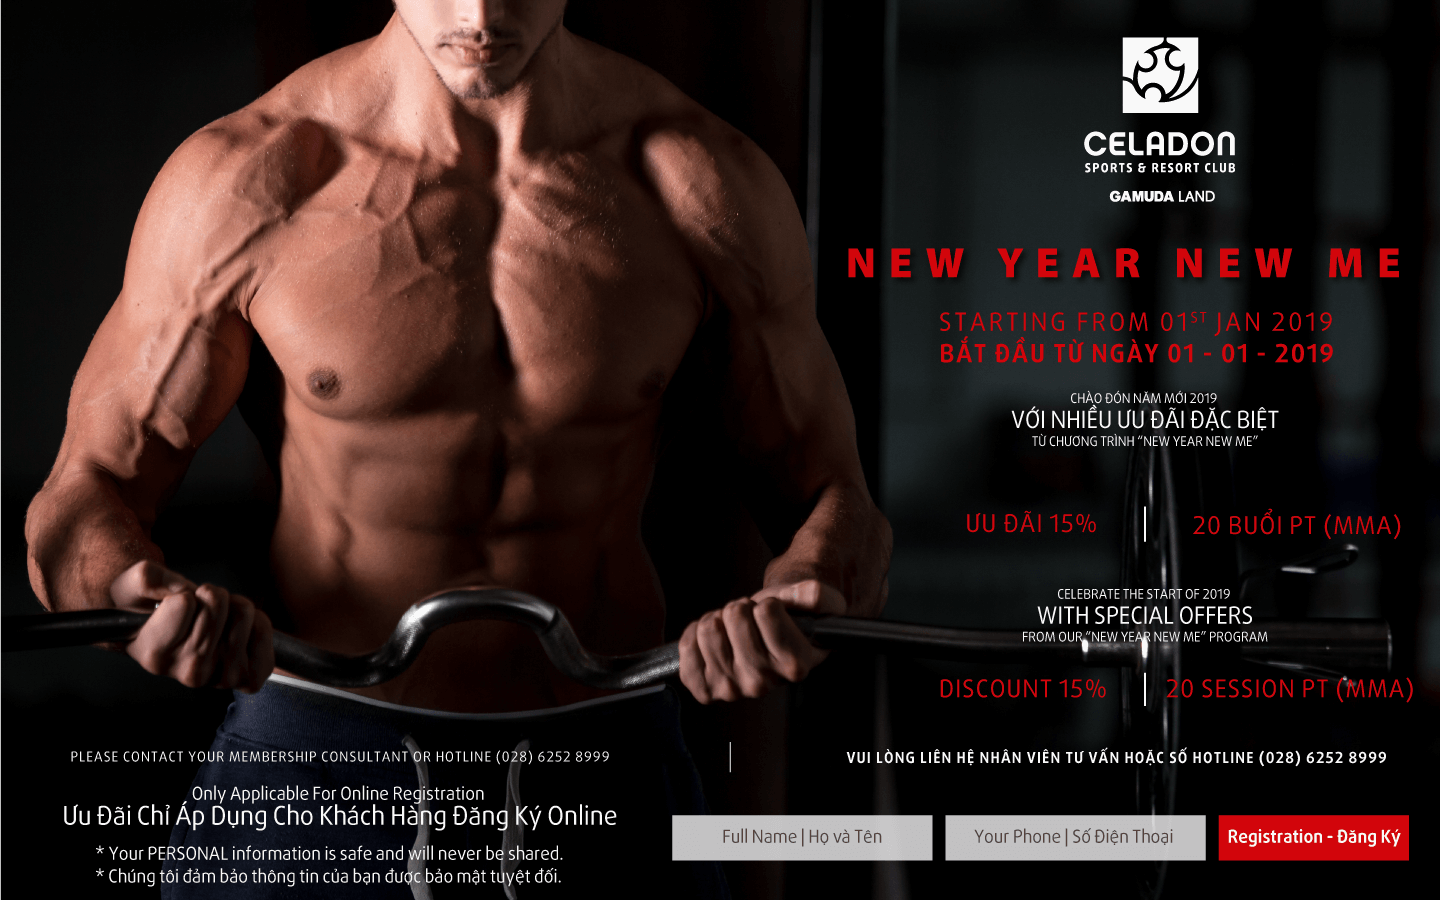
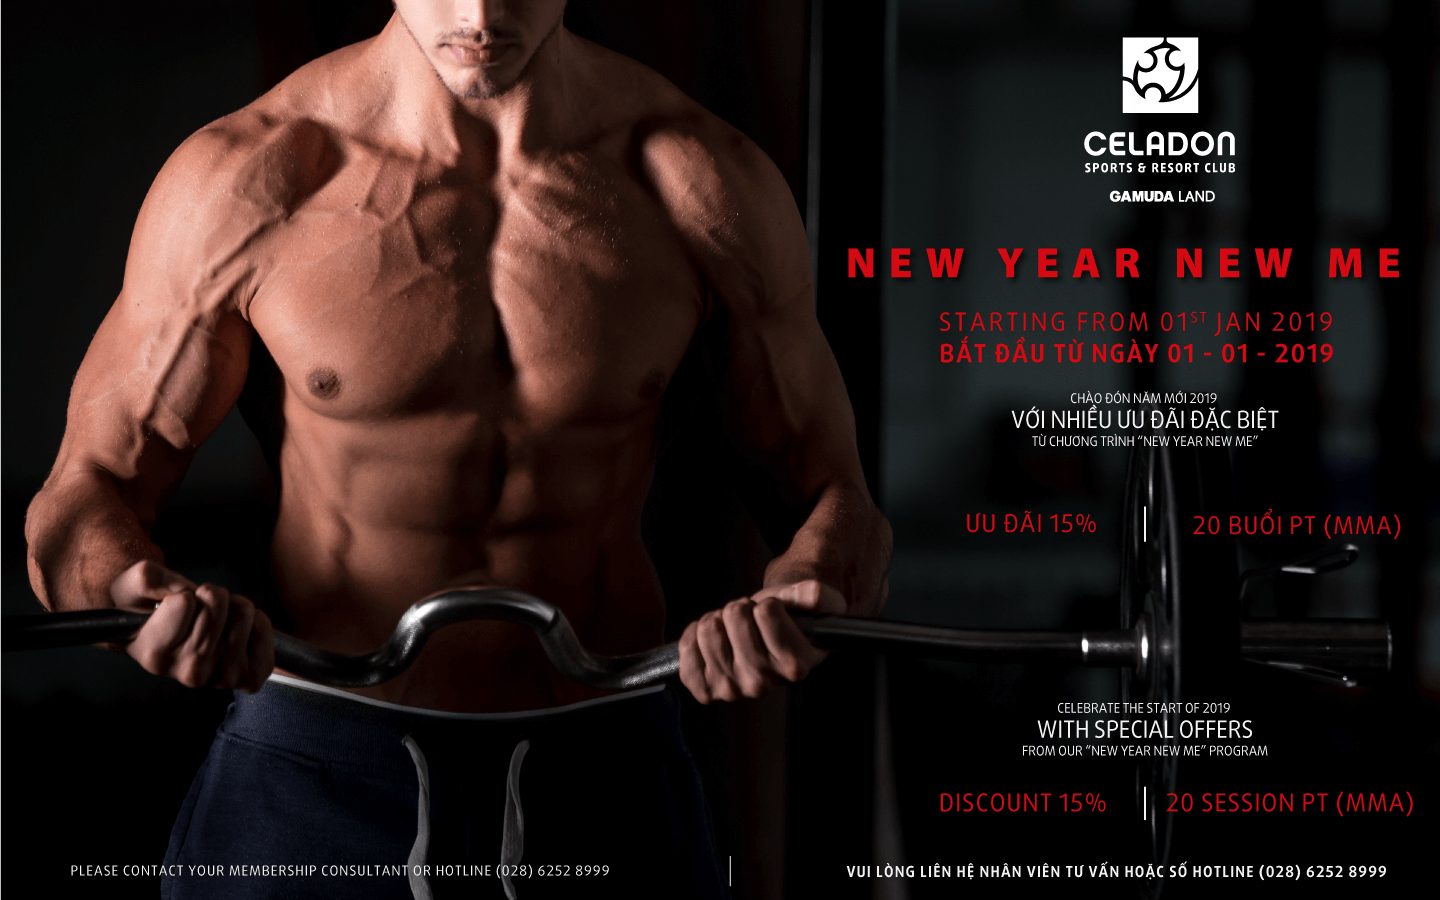
form

Changed region(s): [[0.4688, 0.7467, 1.0, 0.9956], [0.0312, 0.84, 0.4375, 0.9956], [0.7188, 0.6533, 0.875, 0.7156]]

diff --git a/index.html b/index.html
@@ -48,12 +48,12 @@
 
 
         body{
-    background: url(bg.png)
+    background: url(https://vitconproduction.github.io/celadon/bg.png)
 }
 #formregis{
 position: absolute;
-bottom:100px;
-left:100px;
+bottom:30%;
+left:20%;
 opacity: 0.8;
 }
 .loadding{
@@ -74,13 +74,24 @@ padding-left: 30px;
         border:0;
     }
 .form-horizontal .form-group{
-    width: 30%;
-    float: left;
-    min-width:300px;
+    width: 50%;
+    float: none;
+    min-width:380px;
     margin-left: 0;
+    text-align:center;
 }
 .thanks{
     display:none;
+}
+.highlight{
+    color: #ffffff;
+    font-family: Helvetica;
+    font-size: 16px;
+}
+.noted{
+    color: #ffffff;
+    font-family: Helvetica;
+    font-size: 12px;
 }
 @media only screen and (min-width: 768px) {
    body{background-position-y: -30px;}
@@ -100,7 +111,7 @@ padding-left: 30px;
 @media only screen and (max-width: 768px) {
     .thanks{
     position: absolute;
-    top: 50px;
+    top: 80px;
     margin: auto;
     width: 100%;
     z-index: 9999;
@@ -116,9 +127,10 @@ padding-left: 30px;
 
     }
     #formregis{
-    position: absolute;
-    top:80px;
-    left: 0;
+    position: fixed;
+    top:50%;
+    left:50%;
+    transform:translate(-50%,-100%);
     text-align: center;
     bottom: auto;
     opacity: 0.9;
@@ -131,16 +143,25 @@ padding-left: 30px;
 
 </head>
 
-<body class="homepage" itemscope="" itemtype="https://www.haravan.com">
-    <img class="thanks" src="thanks.png">
+<body class="homepage" >
+    <img class="thanks" src="https://vitconproduction.github.io/celadon/thanks.png">
     <form id="formregis" class="form-horizontal">
         <img class="loadding" src="https://loading.io/spinners/microsoft/index.svg">
+
+        <!-- Highlight Text input-->
+        <div class="form-group">
+
+            <div class="col-md-12">
+                <p class="highlight">Only Applicanle For Online Registration</p>
+                <p class="highlight">Ưu Đãi Chỉ Áp Dụng Cho Khách Hàng <br> Đăng Ký Online</p>
+            </div>
+        </div>
 
         <!-- Text input-->
         <div class="form-group">
 
             <div class="col-md-12">
-                <input id="name" name="name" type="text" placeholder="Họ và tên" class="form-control input-md" required="">
+                <input id="name" name="name" type="text" placeholder="Fullname | Họ và tên" class="form-control input-md" required="">
 
             </div>
         </div>
@@ -149,7 +170,7 @@ padding-left: 30px;
         <div class="form-group">
 
             <div class="col-md-12">
-                <input id="phone" name="phone" type="text" placeholder="Số điện thoại" class="form-control input-md"
+                <input id="phone" name="phone" type="text" placeholder="Your Phone | Số điện thoại" class="form-control input-md"
                     required="">
 
             </div>
@@ -160,10 +181,17 @@ padding-left: 30px;
 
             <div class="col-md-12">
                 <input type="hidden" value="regis" name="action">
-                <button id="bigpenregis" name="singlebutton" class="btn btn-danger">Đăng ký</button>
+                <button id="bigpenregis" name="singlebutton" class="btn btn-danger">Registration - Đăng ký</button>
             </div>
         </div>
 
+        <!-- Noted Text input-->
+        <div class="form-group">
+
+            <div class="col-md-12">
+                <p class="noted">* Your PERSONAL information is safe and will never be shared. <br> * Chúng tôi đảm bảo thông tin của bạn được bảo mật tuyệt đối.</p>
+            </div>
+        </div>
 
     </form>
     <script>
